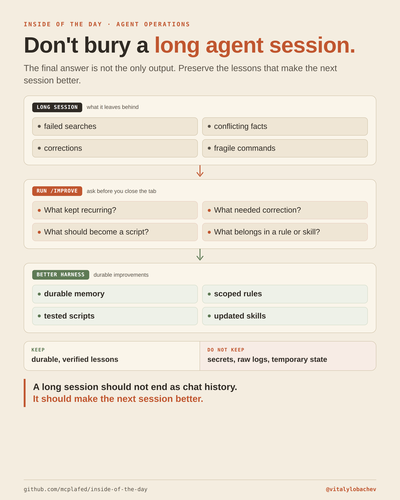
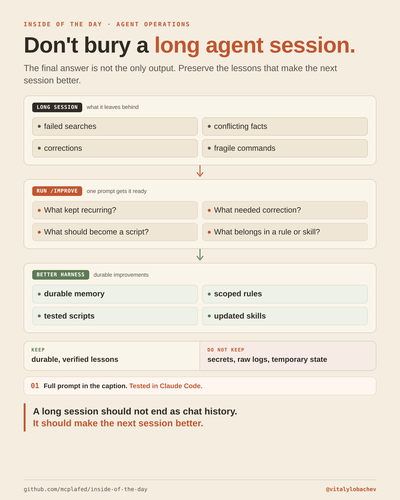
docs(linkedin): point readers to improve prompt

Changed region(s): [[0.06, 0.75, 0.6, 0.87], [0.27, 0.36, 0.33, 0.39], [0.36, 0.36, 0.39, 0.39]]

diff --git a/posts/12-improve-the-harness/source/infographic.html b/posts/12-improve-the-harness/source/infographic.html
@@ -113,6 +113,15 @@
   .boundary .txt{font-size:20px;font-weight:600;color:var(--ink);line-height:1.25;}
   .boundary .drop{background:#f7ece5;}
 
+  .prompt-note{
+    margin-top:16px;padding:13px 18px;
+    border:1.5px solid var(--terra-soft);border-radius:12px;
+    background:#fff6f0;display:flex;gap:12px;align-items:center;
+  }
+  .prompt-note .mark{font:700 19px/1 "SF Mono",ui-monospace,Menlo,Consolas,monospace;color:var(--terra);}
+  .prompt-note .copy{font-size:18px;line-height:1.25;font-weight:650;color:var(--ink);}
+  .prompt-note .copy span{color:var(--terra);}
+
   /* Takeaway */
   .takeaway{
     margin-top:22px;
@@ -166,7 +175,7 @@
       <div class="panel improve">
         <div class="head">
           <span class="badge mono">RUN /IMPROVE</span>
-          <span class="sub">ask before you close the tab</span>
+          <span class="sub">one prompt gets it ready</span>
         </div>
         <div class="chips">
           <div class="chip">What kept recurring?</div>
@@ -207,6 +216,11 @@
         <div class="lbl">Do not keep</div>
         <div class="txt">secrets, raw logs, temporary state</div>
       </div>
+    </div>
+
+    <div class="prompt-note">
+      <div class="mark">01</div>
+      <div class="copy">Full prompt in the caption. <span>Tested in Claude Code.</span></div>
     </div>
 
     <div class="takeaway">
